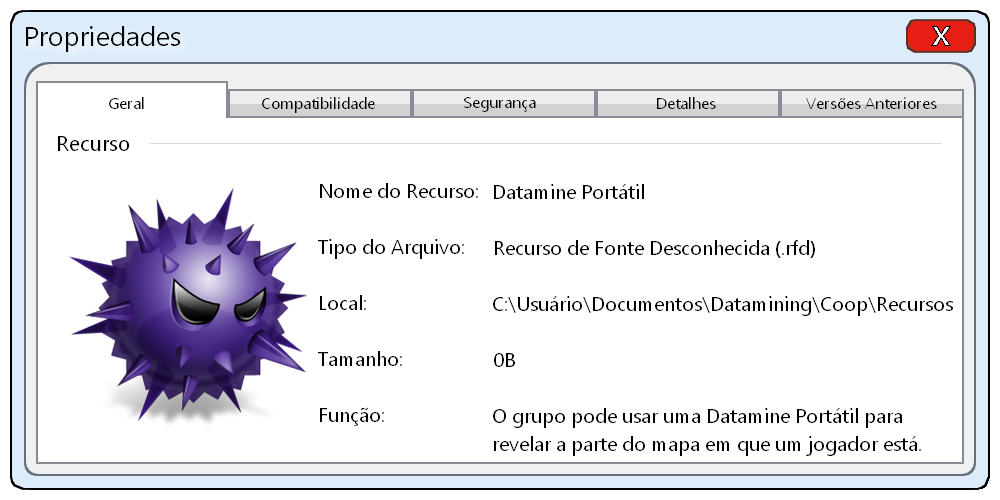
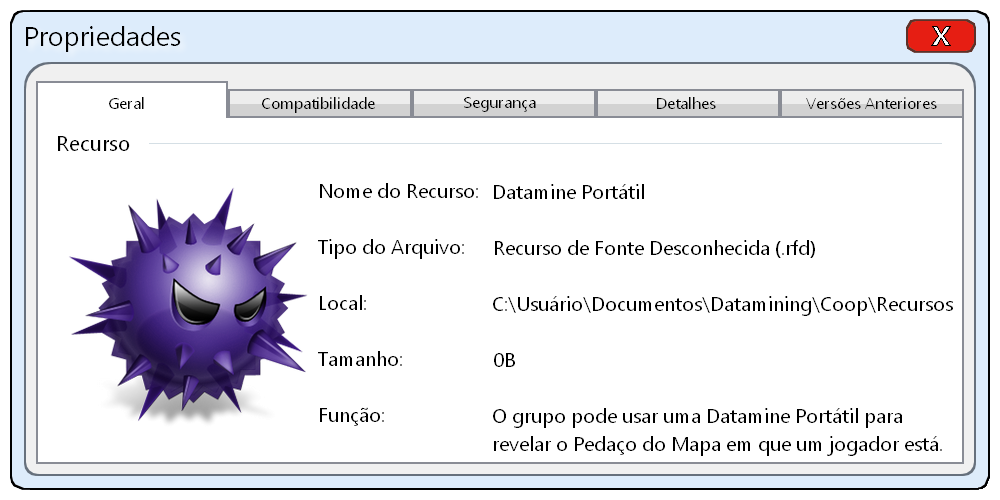
Add files via upload

Changed region(s): [[0.558, 0.87, 0.961, 0.93]]

diff --git a/Regras - Datamining.html b/Regras - Datamining.html
@@ -197,23 +197,23 @@
                 <div class="regra-com-imagem">
                     <div class="texto-regra">
                         <p>• <b>Objetivo:</b> Proteger o <strong>Arquivo Vital</strong>, que está na pasta de Diretório Principal, e levá-lo até sua Zona Segura. Vence o jogador que iniciar seu turno na própria pasta de Zona Segura com o Arquivo Vital no seu <strong>Banco de Dados</strong>.</p>
-						<p>• <b>Jogadores:</b> Um jogador é o <strong>Sistema Operacional (SO)</strong> sendo corrompido e os outros são <strong>Antivírus</strong> concorrentes entre si. <i><u>(Mínimo de 3 e máximo de 8 jogadores além do SO)</u></i></p>
+						<p>• <b>Jogadores:</b> Um jogador é o <strong>Sistema Operacional (SO)</strong> sendo corrompido e os outros são <strong>Antivírus</strong> concorrentes entre si. <i><u>(Mínimo de 3 e máximo de 8 jogadores Antivírus).</u></i></p>
                         <p>• <b>SO:</b> Apenas o SO vê a <strong>Tabela Mestra de Diretórios (TMD)</strong>. Ele informa as direções possíveis e a distância após a escolha do jogador sobre qual caminho seguir.</p>
-						<p>• <b>Antivírus:</b> Os jogadores Antivírus têm como ações: realizar um movimento, usar um <strong>Recurso</strong>, usar seus <strong>Patches</strong>, realizar um <strong>Combate</strong> ou rodar uma <strong>Roleta</strong>. <i><u>(Não pode repetir uma ação no mesmo turno normalmente)</u></i></p>
+						<p>• <b>Antivírus:</b> Os jogadores Antivírus têm como ações: realizar um <strong>Movimento</strong>, usar um <strong>Recurso</strong>, usar seus <strong>Patches</strong>, realizar um <strong>Combate</strong> ou rodar uma <strong>Roleta</strong>. <i><u>(Não pode repetir uma ação no mesmo turno normalmente).</u></i></p>
                     </div>
                     <img src="Regras PvP (1).png" class="imagem-regra" onclick="expandirImagem(this.src)">
                 </div>
 
                 <div class="regra-com-imagem">
                     <div class="texto-regra">
-                        <p>• <b>Setup:</b> Cada jogador escolhe sua cor e inicia o jogo com seus status <strong>1V-0A-5B</strong>. <i><u>(Versão, Atualização e Bits)</u></i></p>
+                        <p>• <b>Setup:</b> Cada jogador escolhe sua cor e inicia o jogo com seus status <strong>1V-0A-5B</strong>. <i><u>(Versão, Atualização e Bits).</u></i></p>
                     </div>
                     <img src="Regras PvP (2).png" class="imagem-regra" onclick="expandirImagem(this.src)">
                 </div>
 				
 				<div class="regra-com-imagem">
                     <div class="texto-regra">
-                        <p>• <b>Esgotamento:</b> Caso um jogador fique com ambos V e A abaixo de zero, coloque-o de volta na sua pasta de Zona Segura <i><u>(Se não tiver, vai para uma pasta de Download aleatória pelo mapa)</u></i>. Ele dá seus Recursos para os outros jogadores <i><u>(O Arquivo Vital volta para a pasta de Diretório Principal)</u></i> e recomeça com seus status iniciais.</p>
+                        <p>• <b>Esgotamento:</b> Caso um jogador fique com ambos V e A abaixo de zero, coloque-o de volta na sua pasta de Zona Segura <i><u>(Se não tiver, vai para uma pasta de Download aleatória pelo mapa)</u></i>. Ele dá seus Recursos para os outros jogadores <i><u>(O Arquivo Vital volta para a pasta do Diretório Principal)</u></i> e recomeça com seus status iniciais.</p>
 						<p>• <b>Início:</b> A ordem dos jogadores é escolhida pela roleta de Antivírus.</p>
 						<p>• <b>Exploração:</b> Com exceção das pastas de Zona Segura, do Diretório Principal, de Quarentena e de Downloads, encontrar uma pasta nunca explorada concede ao jogador uma <strong>Criptomoeda</strong>, que dá +1A ou +1B pro jogador a sua escolha.</p>
                     </div>
@@ -222,7 +222,7 @@
 				
 				<div class="regra-com-imagem">
                     <div class="texto-regra">
-                        <p>• <b>Datamine:</b> Com exceção das pastas de Zona Segura, do Diretório Principal, de Quarentena e de Downloads, existe uma Datamine escondida no mapa que, ao ser encontrada, revela para o jogador a parte do mapa em que ele está. Depois disso, ela é colocada escondida em outro lugar do mapa.</p>
+                        <p>• <b>Datamine:</b> Com exceção das pastas de Zona Segura, do Diretório Principal, de Quarentena e de Downloads, existe uma Datamine escondida no mapa que, ao ser encontrada, revela para o jogador um Pedaço do Mapa em que ele está. Depois disso, ela é colocada escondida em outro lugar do mapa.</p>
                     </div>
                     <img src="Regras PvP (4).png" class="imagem-regra" onclick="expandirImagem(this.src)">
                 </div>
@@ -239,7 +239,7 @@
                     <div class="texto-regra">
 						<p>• <b>Patch:</b> O jogador do turno sempre usa seus Patches antes dos demais, durante suas ações. Máximo de 3 Patches por jogador <i><u>(Não pode ser usado para remover um elemento da roleta que já tenha sido duplicado)</u></i>.</p>
 							<p>- <strong>1 Patch:</strong> Duplicar ou remover a chance de algum elemento numa roleta própria ou de outro jogador; Bloquear ou desbloquear um caminho adjacente a si.</p>
-							<p>- <strong>2 Patches:</strong> Ganhar um movimento adicional neste turno; Remover 1 Bug próprio; Lutar contra outro jogador a sua escolha <i><u>(Para lutas, ele pode usar 1 Patch próprio e 1 Bug do outro jogador)</u></i>.</p>
+							<p>- <strong>2 Patches:</strong> Ganhar um movimento adicional neste turno; Remover 1 Bug próprio; Entrar em Combate contra outro jogador a sua escolha <i><u>(Para Combates, ele pode usar 1 Patch próprio e 1 Bug do outro jogador)</u></i>.</p>
 							<p>- <strong>3 Patches:</strong> Fazer aparecer um Recurso a sua escolha, que já tenha sido usado por algum jogador durante esta partida, na pasta de Download; Ganhar +1V.</p>
 						<div class="separador"></div>
                     </div>
@@ -250,7 +250,7 @@
                     <div class="texto-regra">
 						<p>• <b>Bug:</b> Outros jogadores podem usar os Bugs do jogador a qualquer momento do turno deste. Máximo de 3 Bugs por jogador.</p>
 							<p>- <strong>1 Bug:</strong> Duplicar ou remover a chance de algum elemento numa roleta do jogador; Bloquear ou desbloquear um caminho adjacente do jogador do turno.</p>
-							<p>- <strong>2 Bugs:</strong> Impedir o jogador de fazer um movimento; Fazer o jogador perder 1 Patch; Forçar o jogador a entrar em uma luta <i><u>(Para lutas, o jogador pode usar 1 Patch próprio e 1 Bug do jogador do turno)</u></i>.</p>
+							<p>- <strong>2 Bugs:</strong> Impedir o jogador de fazer um movimento; Fazer o jogador perder 1 Patch; Forçar o jogador a entrar em um Combate contra o jogador que está usando seus Bugs <i><u>(Para Combates, o jogador pode usar 1 Patch próprio e 1 Bug do jogador do turno)</u></i>.</p>
 							<p>- <strong>3 Bugs:</strong> Remover um Recurso do Banco de Dados do jogador que não seja o Arquivo Vital; Receber -1V.</p>
 						<div class="separador"></div>
                     </div>
@@ -268,7 +268,7 @@
                 <div class="texto-regra">
                     <p>• <b>Diretório Principal:</b> É disfarçada de uma Pasta Vazia e é tratada como tal até o jogador encontrar todas as Chaves de Acesso e estiver com o V necessário ou acima para acessá-la.</p>
 					<p>• <b>Arquivo Vital:</b> Enquanto estiver fora do Diretório Principal, qualquer jogador pode ter o Arquivo Vital em seu Banco de Dados, independentemente de ter todas as Chaves de Acesso ou de estar no V necessário.</p>
-					<p>• <b>Empate:</b> No caso de empate em alguma luta ou indecisão do resultado de alguma roleta ou escolha, quem desempata são os jogadores externos à ação. Caso haja mais de um jogador externo, esta escolha deverá ser feita de forma unânime. Caso os jogadores externos não entrem num consenso sobre o que fazer por muito tempo, o SO pode, a qualquer momento, interromper a decisão e rodar a roleta de Quarentena para todos os jogadores <i><u>(internos ou externos à ação)</u></i>.</p>
+					<p>• <b>Empate:</b> No caso de empate em algum Combate ou indecisão do resultado de alguma Roleta ou escolha, quem desempata são os jogadores externos à ação. Caso haja mais de um jogador externo, esta escolha deverá ser feita de forma unânime. Caso os jogadores externos não entrem num consenso sobre o que fazer por muito tempo, o SO pode, a qualquer momento, interromper a decisão e rodar a roleta de Quarentena para todos os jogadores <i><u>(sejam participantes ou externos à ação)</u></i>.</p>
                 </div>
             </div>
 
@@ -282,7 +282,7 @@
 						<li>O mapa é completo, não tendo espaços vazios entre as pastas no mapa.</li>
 						<li>Sem caminhos bloqueados no início do jogo.</li>
 						<li>O SO informará a distância que deslocará, após o jogador escolher um caminho, e quais caminhos poderão ser seguidos da pasta que o jogador está.</li>
-						<li>Zonas Seguras estão sempre nos mesmos locais do mapa e cada jogador saberá onde ele mesmo inicia o jogo, mas não sabe onde iniciam os outros jogadores.</li>
+						<li>No início do jogo, os jogadores são informados sobre onde estão todas as pastas de Zonas Seguras do mapa. Cada jogador recebe secretamente as coordenadas de onde ele mesmo inicia o jogo, mas não sabe onde se iniciam os outros jogadores.</li>
 						<li>Ao invés de escolher entre receber +A ou +B, seja por vitórias ou encontrar criptomoedas, os jogadores recebem ambos.</li>
 						<li>Não há limite de uso de Recursos por turno.</li>
 						<li>Sem pasta de Quarentena pelo mapa.</li>
@@ -299,10 +299,10 @@
 						<li>A pasta de Diretório Principal só pode ser acessada por jogadores no 3V.</li>
 						<li>Sem caminhos bloqueados no início do jogo.</li>
 						<li>O SO informará a distância que deslocará, após o jogador escolher um caminho, e quais caminhos poderão ser seguidos da pasta que o jogador está.</li>
-						<li>Zonas Seguras estão sempre nos mesmos locais do mapa e cada jogador saberá onde ele mesmo inicia o jogo, mas não sabe onde iniciam os outros jogadores.</li>
+						<li>No início do jogo, os jogadores são informados sobre onde estão todas as pastas de Zonas Seguras do mapa. Cada jogador recebe secretamente as coordenadas de onde ele mesmo inicia o jogo, mas não sabe onde se iniciam os outros jogadores.</li>
 						<li>Ao invés de escolher entre receber +A ou +B, seja por vitórias ou encontrar criptomoedas, os jogadores recebem ambos.</li>
 						<li>Limite de uso de 2 Recursos por jogador a cada turno.</li>
-						<li>Sem pasta de Quarentena pelo mapa.</li>
+						<li>Há no mínimo 0 e no máximo 1 pasta de Quarentena pelo mapa.</li>
 						<li>Recursos à venda na pasta de Downloads custam -1B que seus preços normais <i><u>(Mínimo de 1B)</u></i>.</li>
 					</div>
 					<img src="Regras PvP (10).png" class="imagem-regra" onclick="expandirImagem(this.src)">
@@ -316,9 +316,9 @@
 						<li>A pasta de Diretório Principal só pode ser acessada por jogadores no 5V.</li>
 						<li>Alguns caminhos podem começar o jogo já bloqueados.</li>
 						<li>O SO informará a distância que deslocará, após o jogador escolher um caminho, e quais caminhos poderão ser seguidos da pasta que o jogador está.</li>
-						<li>Zonas Seguras estão sempre nos mesmos locais do mapa e cada jogador saberá onde ele mesmo inicia o jogo, mas não sabe onde iniciam os outros jogadores.</li>
+						<li>No início do jogo, os jogadores são informados sobre onde estão todas as pastas de Zonas Seguras do mapa. Cada jogador recebe secretamente as coordenadas de onde ele mesmo inicia o jogo, mas não sabe onde se iniciam os outros jogadores.</li>
 						<li>Limite de uso de 1 Recurso por jogador a cada turno.</li>
-						<li>Há 1 pasta de Quarentena pelo mapa.</li>
+						<li>Há no mínimo 1 e no máximo 3 pastas de Quarentena pelo mapa.</li>
 						<li>Recursos à venda na pasta de Downloads custam os seus preços normais.</li>
 					</div>
 					<img src="Regras PvP (11).png" class="imagem-regra" onclick="expandirImagem(this.src)">
@@ -332,9 +332,9 @@
 						<li>A pasta de Diretório Principal só pode ser acessada por jogadores no 7V.</li>
 						<li>Mais caminhos podem começar o jogo já bloqueados.</li>
 						<li>O SO não informará a distância que deslocará, após o jogador escolher um caminho, nem quais caminhos poderão ser seguidos da pasta que o jogador está <i><u>(O jogador informará uma direção e o SO dirá se o jogador se moveu ou falará para o jogador escolher outra)</u></i>.</li>
-						<li>Zonas Seguras, apesar de estarem sempre nos mesmos locais do mapa, não são informadas aos seus respectivos jogadores onde iniciam o jogo.</li>
+						<li>No início do jogo, cada jogador recebe secretamente as coordenadas de onde ele mesmo inicia o jogo, mas não sabe onde se iniciam os outros jogadores. Os jogadores não são informados sobre onde estão as demais pastas de Zonas Seguras do mapa.</li>
 						<li>Limite de uso de 1 Recurso por jogador a cada turno.</li>
-						<li>Há 2 pastas de Quarentena pelo mapa e o jogador fica 1 turno preso nelas.</li>
+						<li>Há no mínimo 2 e no máximo 4 pastas de Quarentena pelo mapa e o jogador fica 1 turno preso nelas.</li>
 						<li>Recursos à venda na pasta de Downloads custam +1B que seus preços normais.</li>
 					</div>
 					<img src="Regras PvP (12).png" class="imagem-regra" onclick="expandirImagem(this.src)">
@@ -348,12 +348,12 @@
 						<li>A pasta de Diretório Principal só pode ser acessada por jogadores no 10V.</li>
 						<li>Muitos caminhos podem começar o jogo já bloqueados.</li>
 						<li>O SO não informará a distância que deslocará, após o jogador escolher um caminho, nem quais caminhos poderão ser seguidos da pasta que o jogador está <i><u>(O jogador informará uma direção e o SO dirá se o jogador se moveu ou falará para o jogador escolher outra)</u></i>.</li>
-						<li>Zonas Seguras não são informadas aos seus respectivos jogadores onde iniciam o jogo. Além disso, elas não têm localização fixa, podendo estar em qualquer lugar do mapa.</li>
+						<li>Os jogadores não são informados sobre onde estão nenhuma das pastas de Zonas Seguras do mapa, nem mesmo as suas próprias.</li>
 						<li>Caminhos diagonais não são necessariamente em 45º.</li>
 						<li>Limite de uso de 1 Recurso por jogador a cada rodada.</li>
 						<li>Todas as perdas de A ou B são duplicadas.</li>
 						<li>Apenas 3 Recursos são vendidos na pasta de Download no máximo normalmente <i><u>(3 Comuns no primeiro patamar; 2 Comuns e 1 Incomum no segundo patamar; e 1 Comum, 1 Incomum e 1 Raro no terceiro patamar)</u></i>.</li>
-						<li>Há 4 pastas de Quarentena pelo mapa e o jogador fica 2 turnos preso nelas.</li>
+						<li>Há no mínimo 4 pastas de Quarentena pelo mapa e o jogador fica 1 turno preso nelas.</li>
 						<li>Recursos à venda na pasta de Downloads custam +3B que seus preços normais.</li>
 					</div>
 					<img src="Regras PvP (13).png" class="imagem-regra" onclick="expandirImagem(this.src)">
@@ -367,9 +367,9 @@
                 <div class="regra-com-imagem">
                     <div class="texto-regra">
                         <p>• <b>Objetivo:</b> Proteger o <strong>Arquivo Vital</strong>, que está na pasta de Diretório Principal, e levá-lo até sua Zona Segura. O grupo vence se todos iniciarem a rodada na Zona Segura com o Arquivo Vital em seu <strong>Banco de Dados</strong>.</p>
-						<p>• <b>Jogadores:</b> Um jogador é o <strong>Sistema Operacional (SO)</strong> sendo corrompido e os outros são um programa de <strong>Antivírus</strong> trabalhando juntos para resgatar o SO. (Mínimo de 3 e máximo de 8 jogadores além do SO)</p>
+						<p>• <b>Jogadores:</b> Um jogador é o <strong>Sistema Operacional (SO)</strong> sendo corrompido e os outros são um programa de <strong>Antivírus</strong> trabalhando juntos para resgatar o SO <i><u>(Mínimo de 3 e máximo de 8 jogadores Antivírus)</u></i>.</p>
 						<p>• <b>SO:</b> Apenas o SO vê a <strong>Tabela Mestra de Diretórios (TMD)</strong>. Ele informa as direções possíveis e a distância após a escolha do jogador sobre qual caminho seguir.</p>
-						<p>• <b>Antivírus:</b> Os jogadores Antivírus têm como ações: realizar um movimento, usar um <strong>Recurso</strong>, usar seus <strong>Patches</strong>, realizar um <strong>Jogo Cooperativo</strong> ou rodar uma <strong>Roleta</strong>. (Não pode repetir uma ação no mesmo turno normalmente)</p>
+						<p>• <b>Antivírus:</b> Os jogadores Antivírus têm como ações: realizar um <strong>Movimento</strong>, usar um <strong>Recurso</strong>, usar seus <strong>Patches</strong>, realizar um <strong>Jogo Cooperativo</strong> ou rodar uma <strong>Roleta</strong> <i><u>(Não pode repetir uma ação no mesmo turno normalmente)</u></i>.</p>
                     </div>
                     <img src="Regras Coop (1).png" class="imagem-regra" onclick="expandirImagem(this.src)">
                 </div>
@@ -386,21 +386,21 @@
                         <p>• <b>Turnos:</b> O jogo terá 120 turnos inicialmente.</p>
 						<p>• <b>Esgotamento:</b> Caso o grupo fique com ambos V e A abaixo de zero ou o número de turnos chegue a 0, o jogo acaba.</p>
 						<p>• <b>Exploração:</b> Com exceção das pastas de Zona Segura, do Diretório Principal, de Quarentena e de Downloads, encontrar uma pasta nunca explorada concede ao jogador uma <strong>Criptomoeda</strong>, que dá +1A ou +1B para o grupo a escolha do jogador que a encontrou.</p>
-						<p>• <b>Rodadas:</b> Durante uma rodada, cada jogador do grupo pode ter seu turno em qualquer ordem, mas cada jogador deve ter um turno por rodada. Ao final de cada rodada, é rolada a roleta de Arquivo Desconhecido.</p>
+						<p>• <b>Rodadas:</b> Durante uma rodada, cada jogador do grupo pode ter seu turno em qualquer ordem, mas cada jogador deve ter um turno por rodada. Ao final de cada rodada, é rolada a Roleta de Arquivo Desconhecido.</p>
                     </div>
                     <img src="Regras Coop (3).png" class="imagem-regra" onclick="expandirImagem(this.src)">
                 </div>
 				
 				<div class="regra-com-imagem">
                     <div class="texto-regra">
-                        <p>• <b>Datamine:</b> Com exceção das pastas de Zona Segura, do Diretório Principal, de Quarentena e de Downloads, existe uma Datamine escondida no mapa que, ao ser encontrada, revela para o grupo a parte do mapa em que o jogador que a encontrou está. Depois disso, ela é colocada escondida em outro lugar do mapa.</p>
+                        <p>• <b>Datamine:</b> Com exceção das pastas de Zona Segura, do Diretório Principal, de Quarentena e de Downloads, existe uma Datamine escondida no mapa que, ao ser encontrada, revela para o grupo o Pedaço do Mapa em que o jogador que a encontrou está. Depois disso, ela é colocada escondida em outro lugar do mapa.</p>
                     </div>
                     <img src="Regras Coop (4).png" class="imagem-regra" onclick="expandirImagem(this.src)">
                 </div>
 				
 				<div class="regra-com-imagem">
                     <div class="texto-regra">
-                        <p>• <b>Progressão:</b> A cada 10A, o jogador recebe +1V e um Patch e fica com 0A. Se seu A cair abaixo de 0, recebe -1V, um Bug, volta a 9A e perde 1 da contagem total de turnos.</p>
+                        <p>• <b>Progressão:</b> A cada 10A, o jogador recebe +1V e um Patch e fica com 0A. Se seu A cair abaixo de 0, recebe -1V, um Bug, volta a 9A e perde 1 da contagem total de turnos para cada jogador Antivírus.</p>
 						<div class="separador"></div>
                     </div>
                     <img src="Regras Coop (5).png" class="imagem-regra" onclick="expandirImagem(this.src)">
@@ -409,9 +409,9 @@
 				<div class="regra-com-imagem">
                     <div class="texto-regra">
                         <p>• <b>Patch:</b> Máximo de 3 Patches para o grupo <i><u>(Não pode ser usado para remover um elemento da roleta que já tenha sido duplicado)</u></i>.</p>
-							<p>- <strong>1 Patch:</strong> Duplicar ou remover a chance de algum elemento numa roleta; Bloquear ou desbloquear um caminho adjacente.</p>
-							<p>- <strong>2 Patches:</strong> Ganhar um movimento adicional neste turno; Remover 1 Bug; Ganhar 3 turnos.</p>
-							<p>- <strong>3 Patches:</strong> Fazer aparecer um Recurso a sua escolha, que já tenha sido usado por algum jogador durante esta partida, na pasta de Download; Ganhar +1V.</p>
+							<p>- <strong>1 Patch:</strong> Duplicar ou remover a chance de algum elemento numa roleta; Bloquear ou desbloquear um caminho adjacente; Ganhar 1 turno.</p>
+							<p>- <strong>2 Patches:</strong> Até 3 jogadores ganham um movimento adicional cada nesta rodada; Remover 1 Bug; Ganhar 3 turnos.</p>
+							<p>- <strong>3 Patches:</strong> Fazer aparecer um Recurso a sua escolha, que já tenha sido usado por algum jogador durante esta partida, na pasta de Download; Ganhar +1V; Ganhar 5 turnos.</p>
 						<div class="separador"></div>
                     </div>
                     <img src="Regras Coop (6).png" class="imagem-regra" onclick="expandirImagem(this.src)">
@@ -431,14 +431,14 @@
 				<div class="regra-com-imagem">
                     <div class="texto-regra">
                         <p>• <b>Recursos:</b> O Banco de Dados do grupo leva até 6 Recursos diferentes. Limite de 1 uso de Recurso por turno.</p>
-						<p>• <b>Jogo Cooperativo:</b> Quando dois ou mais jogadores terminam a rodada na mesma pasta, é iniciado um jogo Cooperativo apenas entre eles. Caso vençam, recebem +3A ou +3B, a escolha do grupo, e uma Datamine Portátil. Caso percam, recebem um Bug e -2B ou -2A, escolhido pelo SO. Estes mesmos jogadores não podem ter outro jogo Cooperativo exclusivamente entre si até que já tenha acontecido outro jogo entre qualquer outra combinação de jogadores ou com o grupo inteiro.</p>
+						<p>• <b>Jogo Cooperativo:</b> Quando dois ou mais jogadores terminam a rodada na mesma pasta, é iniciado um jogo Cooperativo apenas entre eles. Caso vençam, recebem +3A ou +3B, a escolha do grupo, e uma Datamine Portátil. Caso percam, recebem -2B ou -2A, escolhido pelo SO, e um Bug. Estes mesmos jogadores não podem ter outro jogo Cooperativo exclusivamente entre si até que já tenha acontecido outro jogo entre qualquer outra combinação de jogadores ou com o grupo inteiro.</p>
                     </div>
                     <img src="Regras Coop (8).png" class="imagem-regra" onclick="expandirImagem(this.src)">
                 </div>
 
                 <div class="texto-regra">
                     <p>• <b>Diretório Principal:</b> É disfarçada de uma Pasta Vazia e é tratada como tal até o grupo encontrar todas as Chaves de Acesso e estiver com o V necessário ou acima para acessá-la.</p>
-					<p>• <b>Empate:</b> No caso de demora ou indecisão do resultado de alguma roleta ou escolha, o SO pode, a qualquer momento, interromper a decisão e rodar a roleta de Quarentena para o grupo.</p>
+					<p>• <b>Empate:</b> No caso de demora ou indecisão do resultado de alguma roleta ou escolha, o SO pode decidir encerrar a decisão e rodar a roleta de Quarentena para o grupo.</p>
                 </div>
             </div>
 
@@ -453,10 +453,10 @@
 						<li>Sem caminhos bloqueados no início do jogo.</li>
 						<li>Limite de uso de 1 Recurso do grupo por turno.</li>
 						<li>O SO informará a distância que deslocará, após o jogador escolher um caminho, e quais caminhos poderão ser seguidos da pasta que o jogador está.</li>
-						<li>Zonas Seguras estão sempre nos mesmos locais do mapa e são informadas aos seus respectivos jogadores onde iniciam o jogo.</li>
+						<li>No início do jogo, o grupo é informado sobre onde estão todas as pastas de Zonas Seguras do mapa e recebe as coordenadas de onde cada jogador inicia o jogo.</li>
 						<li>Ao invés de escolher entre ganhar +A ou +B, seja por vitórias ou encontrar criptomoedas, o grupo recebe ambos.</li>
 						<li>Ao final de cada rodada, a roleta de Arquivo Desconhecido é rolada.</li>
-						<li>Há 1 pasta de Quarentena pelo mapa.</li>
+						<li>Há no mínimo 1 e no máximo 3 pastas de Quarentena pelo mapa.</li>
 						<li>Adquirir uma nova Zona Segura custa 6B.</li>
 						<li>Recursos à venda na pasta de Downloads custam -2B que seus preços normais (Mínimo de 1B).</li>
 					</div>
@@ -472,9 +472,9 @@
 						<li>Alguns caminhos podem começar o jogo já bloqueados.</li>
 						<li>Limite de uso de 1 Recurso do grupo por turno.</li>
 						<li>O SO informará a distância que deslocará, após o jogador escolher um caminho, e quais caminhos poderão ser seguidos da pasta que o jogador está.</li>
-						<li>Zonas Seguras estão sempre nos mesmos locais do mapa e são informadas aos seus respectivos jogadores onde iniciam o jogo.</li>
+						<li>No início do jogo, o grupo recebe as coordenadas de onde cada jogador inicia o jogo, porém não é informado sobre onde estão as demais pastas de Zonas Seguras do mapa.</li>
 						<li>Ao final de cada rodada, a roleta de Arquivo Desconhecido é rolada.</li>
-						<li>Há 2 pastas de Quarentena pelo mapa e o jogador fica 1 turno preso nelas.</li>
+						<li>Há no mínimo 2 e no máximo 5 pastas de Quarentena pelo mapa e o jogador fica 1 turno preso nelas.</li>
 						<li>Adquirir uma nova Zona Segura custa 8B.</li>
 						<li>Recursos à venda na pasta de Downloads custam seus preços normais.</li>
 					</div>
@@ -491,10 +491,10 @@
 						<li>Todas as perdas de A ou B são duplicadas.</li>
 						<li>Limite de uso de 1 Recurso do grupo por rodada.</li>
 						<li>O SO não informará a distância que deslocará, após o jogador escolher um caminho, nem quais caminhos poderão ser seguidos da pasta que o jogador está.</li>
-						<li>Zonas Seguras, apesar de estarem sempre nos mesmos locais do mapa, não serão informadas aos seus respectivos jogadores onde iniciam o jogo.</li>
+						<li>O grupo não é informado sobre onde estão as pastas de Zonas Seguras do mapa, nem as coordenadas de onde cada jogador inicia o jogo.</li>
 						<li>Caminhos diagonais não são necessariamente em 45º.</li>
 						<li>Ao final de cada rodada, a roleta de Quarentena é rolada.</li>
-						<li>Há 4 pastas de Quarentena pelo mapa e o jogador fica 2 turnos preso nelas.</li>
+						<li>Há no mínimo 4 pastas de Quarentena pelo mapa e o jogador fica 1 turno preso nelas.</li>
 						<li>Adquirir uma nova Zona Segura custa 12B.</li>
 						<li>Recursos à venda na pasta de Downloads custam +3B que seus preços normais.</li>
 					</div>

diff --git a/Pastas - Datamining.html b/Pastas - Datamining.html
@@ -202,7 +202,7 @@
                     <div class="conteudo-dificuldade">
                         <div class="subtitulo-dif">Zona Segura</div>
 							<div class="texto-regra">
-							<p>Onde cada jogador inicia o jogo. Seus locais no mapa são sempre os mesmos <i>(Exceto no Modo Extremo)</i>, variando apenas qual é a pasta inicial de cada jogador. São informados onde estão no mapa aos seus respectivos jogadores <i>(Exceto nos Modos Difícil e Extremo)</i>. Independente de quantos jogadores tenham no jogo, sempre há 8 pastas de Zona Segura espalhadas pelo mapa, uma para cada cor de jogador. Toda vez que um jogador passar pela sua própria Zona Segura, recebe +2B. Caso jogador entre na pasta de Zona Segura de outro jogador, deve pagar 2B ao dono da pasta. Caso um jogador encontre uma pasta de Zona Segura que não pertença a nenhum jogador, ele pode pagar 5B para trocar a sua pasta de Zona Segura por esta, recebendo também uma parte do mapa com suas pastas adjacentes, do contrário, recebe +2A. Um jogador com o Arquivo Vital não pode adquirir uma nova pasta de Zona Segura, enquanto já possuir uma. Caso um jogador esteja em sua pasta de Zona Segura e outro jogador entre nela, o dono da pasta pode escolher entre lutar contra o outro jogador ou não. Caso escolha não lutar, deve dar um Recurso seu para o outro jogador e não recebe o pagamento do outro jogador por entrar em sua Zona Segura <i>(Este efeito não imuniza o jogador dentro de sua Zona Segura de entrar em luta com outros jogadores por outros métodos)</i>.</p>
+							<p>Onde cada jogador inicia o jogo. Seus locais no mapa são sempre informados a todos os jogadores <i>(Exceto nos Modos Difícil e Extremo)</i>, variando apenas qual é a pasta inicial de cada jogador, que é informada secretamente para cada um <i>(Exceto no Modo Extremo)</i>. Independente de quantos jogadores tenham no jogo, sempre há 8 pastas de Zona Segura espalhadas pelo mapa. Toda vez que um jogador passar pela sua própria Zona Segura, recebe +2B. Caso jogador entre na pasta de Zona Segura de outro jogador, deve pagar 2B ao dono da pasta. Caso um jogador encontre uma pasta de Zona Segura que não pertença a nenhum jogador, ele pode pagar 5B para trocar a sua pasta de Zona Segura por esta, recebendo também um Pedaço do Mapa de onde esta pasta está, do contrário, recebe +2A. Um jogador com o Arquivo Vital não pode adquirir uma nova pasta de Zona Segura, enquanto já possuir uma. Caso um jogador esteja em sua pasta de Zona Segura e outro jogador entre nela, o dono da pasta pode escolher entre entrar em Combate contra o outro jogador ou não. Caso escolha não entrar em Combate, deve dar um Recurso seu para o outro jogador e também não recebe o pagamento do outro jogador por entrar em sua Zona Segura <i>(Este efeito não imuniza o jogador dentro de sua Zona Segura de entrar em Combate com outros jogadores por outros métodos)</i>.</p>
 						</div>
                     </div>
                     <img src="Pasta (1).png" class="imagem-regra" onclick="expandirImagem(this.src)">
@@ -231,7 +231,7 @@
                     <div class="conteudo-dificuldade">
                         <div class="subtitulo-dif">Downloads</div>
 							<div class="texto-regra">
-							<p>Os jogadores podem usar seus Bits para comprar Recursos. Toda vez que um jogador entrar nesta pasta, são aleatorizados entre 4 a 7 Recursos que estão à venda. Recursos melhores aparecem conforme o jogador progride pelo jogo. Os Recursos à venda e seus efeitos somente aparecem para o jogador que está comprando, porém são mostrados aos outros jogadores a imagem representativa dos Recursos comprados. Máximo de 2 Recursos podem ser comprados por turno.</p>
+							<p>Os jogadores podem usar seus Bits para comprar Recursos. A cada vez que um jogador entrar nesta pasta, são aleatorizados entre 4 a 7 Recursos que estão à venda. Recursos melhores aparecem conforme o jogador progride pelo jogo. Os Recursos à venda e seus efeitos somente aparecem para o jogador que está comprando, porém são mostrados aos outros jogadores apenas o ícone dos Recursos comprados, em seu Banco de Dados. Máximo de 2 Recursos podem ser comprados por turno numa mesma pasta de Download.</p>
 						</div>
                     </div>
                     <img src="Pasta (4).png" class="imagem-regra" onclick="expandirImagem(this.src)">
@@ -261,7 +261,7 @@
                     <div class="conteudo-dificuldade">
                         <div class="subtitulo-dif">Chave de Acesso</div>
 							<div class="texto-regra">
-							<p>O jogador recebe secretamente uma pista de onde está a pasta do Diretório Principal <i>(É tratada como uma Pasta Vazia, durante o turno do jogador que a encontrou)</i>. A cada final de rodada em que algum jogador tenha encontrado pelo menos uma pasta de Chave de Acesso, o SO informa a todos quantos jogadores possuem Chaves de Acesso e quantas cada um possui, sem informar quais jogadores as têm. Encontrando todas, permite ao jogador encontrar o Diretório Principal.</p>
+							<p>O jogador recebe secretamente uma pista de onde está a pasta do Diretório Principal <i>(É tratada como uma Pasta Vazia, durante o turno do jogador que a encontrou)</i>. A cada final de rodada em que algum jogador tenha encontrado pelo menos uma pasta de Chave de Acesso, o SO informa a todos quantos jogadores possuem Chaves de Acesso e quantas cada um possui, sem informar quais jogadores as têm. Encontrando todas, permite ao jogador encontrar a pasta do Diretório Principal.</p>
 						</div>
                     </div>
                     <img src="Pasta (7).png" class="imagem-regra" onclick="expandirImagem(this.src)">
@@ -271,7 +271,7 @@
                     <div class="conteudo-dificuldade">
                         <div class="subtitulo-dif">Diretório Principal</div>
 							<div class="texto-regra">
-							<p>É disfarçada de alguma outra Pasta Vazia até o jogador encontrar todas as Chaves de Acesso e ter V necessário para acessá-la. É onde está o Arquivo Vital.</p>
+							<p>É disfarçada de alguma outra Pasta Vazia até o jogador encontrar todas as Chaves de Acesso e ter V necessário para acessá-la. É onde inicialmente está o Arquivo Vital.</p>
 						</div>
                     </div>
                     <img src="Pasta (8).png" class="imagem-regra" onclick="expandirImagem(this.src)">
@@ -296,7 +296,7 @@
                     <div class="conteudo-dificuldade">
                         <div class="subtitulo-dif">Zona Segura</div>
 							<div class="texto-regra">
-							<p>Onde cada jogador inicia o jogo. Seus locais no mapa são sempre os mesmos, variando apenas qual é a pasta inicial de cada jogador. Todos os jogadores são informados onde estão as pastas de cada um no mapa <i>(Exceto no Modo Difícil)</i>. Independente de quantos jogadores tenham no jogo, sempre há 8 pastas de Zona Segura no mapa. Toda vez que um jogador passar por alguma Zona Segura pertencente ao grupo que não seja da sua mesma cor, o grupo recebe +2B. Caso um jogador encontre uma pasta de Zona Segura que não pertença ao grupo, ele pode pagar 8B para trocar a sua Zona Segura por esta, recebendo também uma parte do mapa com suas pastas adjacentes, do contrário, recebe +3A. Enquanto o grupo possuir o Arquivo Vital, todas as pastas de Zona Segura são dadas como perdidas e apenas uma delas é escolhida aleatoriamente para ser a única saída do grupo. Enquanto possuírem o Arquivo Vital, o grupo não pode adquirir uma nova pasta de Zona Segura e, caso esta seja perdida por algum efeito, apenas altera a Zona Segura para outra escolhida aleatoriamente.</p>
+							<p>Onde cada jogador inicia o jogo. Seus locais no mapa não são informados aos jogadores <i>(Exceto no Modo Fácil)</i>, mas as coordenadas das pastas iniciais de cada jogador são <i>(Exceto no Modo Difícil)</i>. Independente de quantos jogadores tenham no jogo, sempre há 8 pastas de Zona Segura no mapa. Toda vez que um jogador passar por alguma Zona Segura pertencente ao grupo que não seja da sua mesma cor, o grupo recebe +2B <i>(Se a pasta de Zona Segura e o jogador forem da mesma cor, o grupo não recebe nada)</i>. Caso um jogador encontre uma pasta de Zona Segura que não pertença ao grupo, ele pode pagar 8B para trocar a sua Zona Segura por esta, recebendo também um Pedaço do Mapa com suas pastas adjacentes, do contrário, recebe +3A. Enquanto o grupo possuir o Arquivo Vital, todas as pastas de Zona Segura são dadas como perdidas e apenas uma delas é escolhida aleatoriamente para ser a única saída do grupo. Enquanto possuírem o Arquivo Vital, o grupo não pode adquirir uma nova pasta de Zona Segura e, caso esta seja perdida por algum efeito, apenas altera a Zona Segura para outra escolhida aleatoriamente.</p>
 						</div>
                     </div>
                     <img src="Pasta (1).png" class="imagem-regra" onclick="expandirImagem(this.src)">
@@ -325,7 +325,7 @@
                     <div class="conteudo-dificuldade">
                         <div class="subtitulo-dif">Downloads</div>
 							<div class="texto-regra">
-							<p>O grupo pode usar seus Bits para comprar Recursos. Toda vez que um jogador entrar nesta pasta, são aleatorizados entre 4 a 7 Recursos que estão à venda. Recursos melhores aparecem conforme o grupo progride durante o jogo. Máximo de 2 Recursos podem ser comprados por turno.</p>
+							<p>O grupo pode usar seus Bits para comprar Recursos. A cada vez que um jogador entrar nesta pasta, são aleatorizados entre 4 a 7 Recursos que estão à venda. Recursos melhores aparecem conforme o grupo progride durante o jogo. Máximo de 2 Recursos podem ser comprados por turno.</p>
 						</div>
                     </div>
                     <img src="Pasta (4).png" class="imagem-regra" onclick="expandirImagem(this.src)">
@@ -335,7 +335,7 @@
                     <div class="conteudo-dificuldade">
                         <div class="subtitulo-dif">Jogo Cooperativo</div>
 							<div class="texto-regra">
-							<p>O grupo roda a roleta Cooperativa. Caso ganhem o jogo, recebem +3A ou +3B, a escolha do grupo, além de 1 Patch e 1 Datamine Portátil. Caso percam, recebem -3B, -3A ou se perdem um Recurso aleatoriamente, a escolha do SO, e 1 Bug.</p>
+							<p>O grupo roda a roleta Cooperativa. Caso ganhem o jogo, recebem +3A ou +3B, a escolha do grupo, além de 1 Patch e 1 Datamine Portátil. Caso percam, recebem -3B, -3A ou perdem um Recurso aleatoriamente, a escolha do SO, além de 1 Bug.</p>
 						</div>
                     </div>
                     <img src="Pasta (5)c.png" class="imagem-regra" onclick="expandirImagem(this.src)">
@@ -355,7 +355,7 @@
                     <div class="conteudo-dificuldade">
                         <div class="subtitulo-dif">Chave de Acesso</div>
 							<div class="texto-regra">
-							<p>O grupo recebe uma pista de onde está a pasta do Diretório Principal. Encontrando todas, permite ao grupo encontrar o Diretório Principal.</p>
+							<p>O grupo recebe uma pista de onde está a pasta do Diretório Principal. Encontrando todas, permite ao grupo encontrar a pasta do Diretório Principal.</p>
 						</div>
                     </div>
                     <img src="Pasta (7).png" class="imagem-regra" onclick="expandirImagem(this.src)">
@@ -365,7 +365,7 @@
                     <div class="conteudo-dificuldade">
                         <div class="subtitulo-dif">Diretório Principal</div>
 							<div class="texto-regra">
-							<p>É disfarçada de alguma outra pasta até o grupo encontrar todas as Chaves de Acesso e ter V necessário para acessá-la. Local onde está o Arquivo Vital.</p>
+							<p>É disfarçada de alguma outra pasta até o grupo encontrar todas as Chaves de Acesso e ter V necessário para acessá-la. É onde inicialmente está o Arquivo Vital.</p>
 						</div>
                     </div>
                     <img src="Pasta (8).png" class="imagem-regra" onclick="expandirImagem(this.src)">

diff --git a/Placares Secretos - Datamining.html b/Placares Secretos - Datamining.html
@@ -436,16 +436,16 @@
     // Regras e Tabela de Dificuldade mantidas conforme seu código...
     const regrasTexto = {
         pvp: {
-            'muito fácil': ["Recomendado: Máximo 4 jogadores.", "Mapa 5x5 (sem pastas de Chave de Acesso).", "Mapa completo (sem espaços vazios).", "Sem caminhos bloqueados no início.", "SO informa distância e caminhos.", "Zonas Seguras fixas e informadas individualmente.", "Recebe +A e +B simultaneamente.", "Sem limite de uso de Recursos.", "Sem pastas de Quarentena.", "Downloads: -2B (Mín. 1B)."],
-            'fácil': ["Recomendado: Máximo 5 jogadores.", "Mapa 7x7 (1 pasta de Chave de Acesso).", "Diretório Principal: Acesso no 3V.", "Sem caminhos bloqueados no início.", "SO informa distância e caminhos.", "Zonas Seguras fixas e informadas individualmente.", "Recebe +A e +B simultaneamente.", "Limite: 2 Recursos por turno.", "Sem pastas de Quarentena.", "Downloads: -1B (Mín. 1B)."],
-            'normal': ["Recomendado: 3 a 6 jogadores.", "Mapa 9x9 (2 pastas de Chave de Acesso).", "Diretório Principal: Acesso no 5V.", "Caminhos podem começar bloqueados.", "SO informa distância e caminhos.", "Zonas Seguras fixas e informadas individualmente.", "Limite: 1 Recurso por turno.", "1 pasta de Quarentena no mapa.", "Downloads: Preços normais."],
-            'difícil': ["Recomendado: 4 a 6 jogadores.", "Mapa 12x12 (3 pastas de Chave de Acesso).", "Diretório Principal: Acesso no 7V.", "Mais caminhos bloqueados.", "SO NÃO informa distância ou caminhos.", "Zonas Seguras fixas, mas início não informado.", "Limite: 1 Recurso por turno.", "2 pastas de Quarentena (1 turno preso).", "Downloads: +1B."],
-            'extremo': ["Recomendado: 6 a 8 jogadores.", "Mapa 15x15 (5 pastas de Chave de Acesso).", "Diretório Principal: Acesso no 10V.", "Muitos caminhos bloqueados.", "SO NÃO informa distância ou caminhos.", "Zonas Seguras móveis e início oculto.", "Caminhos diagonais não necessariamente em 45º.", "Limite: 1 Recurso por rodada.", "Perdas de A ou B duplicadas.", "Estoque de Downloads reduzido.", "4 pastas de Quarentena (2 turnos preso).", "Downloads: +3B."]
+            'muito fácil': ["Recomendado: Máximo 4 jogadores.", "Mapa 5x5 (sem pastas de Chave de Acesso).", "Mapa completo (sem espaços vazios).", "Sem caminhos bloqueados no início.", "SO informa distância e caminhos.", "Zonas Seguras do mapa e individuais informadas.", "Recebe +A e +B simultaneamente.", "Sem limite de uso de Recursos.", "Sem pastas de Quarentena.", "Downloads: -2B (Mín. 1B)."],
+            'fácil': ["Recomendado: Máximo 5 jogadores.", "Mapa 7x7 (1 pasta de Chave de Acesso).", "Diretório Principal: Acesso no 3V.", "Sem caminhos bloqueados no início.", "SO informa distância e caminhos.", "Zonas Seguras do mapa e individuais informadas.", "Recebe +A e +B simultaneamente.", "Limite: 2 Recursos por turno.", "0 a 1 pasta de Quarentena.", "Downloads: -1B (Mín. 1B)."],
+            'normal': ["Recomendado: 3 a 6 jogadores.", "Mapa 9x9 (2 pastas de Chave de Acesso).", "Diretório Principal: Acesso no 5V.", "Caminhos podem começar bloqueados.", "SO informa distância e caminhos.", "Zonas Seguras do mapa e individuais informadas.", "Limite: 1 Recurso por turno.", "1 a 3 pastas de Quarentena no mapa.", "Downloads: Preços normais."],
+            'difícil': ["Recomendado: 4 a 6 jogadores.", "Mapa 12x12 (3 pastas de Chave de Acesso).", "Diretório Principal: Acesso no 7V.", "Mais caminhos bloqueados.", "SO NÃO informa distância ou caminhos.", "Apenas Zonas Seguras individuais são informadas.", "Limite: 1 Recurso por turno.", "2 a 4 pastas de Quarentena (1 turno preso).", "Downloads: +1B."],
+            'extremo': ["Recomendado: 6 a 8 jogadores.", "Mapa 15x15 (5 pastas de Chave de Acesso).", "Diretório Principal: Acesso no 10V.", "Muitos caminhos bloqueados.", "SO NÃO informa distância ou caminhos.", "Zonas Seguras não são informadas.", "Caminhos diagonais não necessariamente em 45º.", "Limite: 1 Recurso por rodada.", "Perdas de A ou B duplicadas.", "Estoque de Downloads reduzido.", "4 ou mais pastas de Quarentena (1 turno preso).", "Downloads: +3B."]
         },
         coop: {
-            'fácil': ["Recomendado: Máximo 4 jogadores.", "Mapa 9x9 (2 pastas de Chave de Acesso).", "Diretório Principal: Acesso no 3V.", "Sem caminhos bloqueados no início.", "Limite: 1 Recurso do grupo por turno.", "SO informa distância e caminhos.", "Zonas Seguras fixas e informadas.", "Grupo recebe +A e +B simultaneamente.", "Roleta Arquivo Desconhecido toda rodada.", "1 pasta de Quarentena.", "Nova Zona Segura: 6B.", "Downloads: -2B (Mín. 1B)."],
-            'normal': ["Recomendado: 3 a 6 jogadores.", "Mapa 12x12 (3 pastas de Chave de Acesso).", "Diretório Principal: Acesso no 5V.", "Caminhos podem começar bloqueados.", "Limite: 1 Recurso do grupo por turno.", "SO informa distância e caminhos.", "Zonas Seguras fixas e informadas.", "Roleta Arquivo Desconhecido toda rodada.", "2 pastas de Quarentena (1 turno preso).", "Nova Zona Segura: 8B.", "Downloads: Preço normal."],
-            'difícil': ["Recomendado: 5 a 8 jogadores.", "Mapa 15x15 (5 pastas de Chave de Acesso).", "Diretório Principal: Acesso no 7V.", "Muitos caminhos bloqueados.", "Perdas de A ou B duplicadas.", "Limite: 1 Recurso do grupo por rodada.", "SO NÃO informa distância ou caminhos.", "Início não informado.", "Caminhos diagonais não necessariamente em 45º.", "Roleta de Quarentena toda rodada.", "4 pastas de Quarentena (2 turnos preso).", "Nova Zona Segura: 12B.", "Downloads: +3B."]
+            'fácil': ["Recomendado: Máximo 4 jogadores.", "Mapa 9x9 (2 pastas de Chave de Acesso).", "Diretório Principal: Acesso no 3V.", "Sem caminhos bloqueados no início.", "Limite: 1 Recurso do grupo por turno.", "SO informa distância e caminhos.", "Zonas Seguras do mapa e individuais informadas.", "Grupo recebe +A e +B simultaneamente.", "Roleta Arquivo Desconhecido toda rodada.", "1 a 3 pastas de Quarentena.", "Nova Zona Segura: 6B.", "Downloads: -2B (Mín. 1B)."],
+            'normal': ["Recomendado: 3 a 6 jogadores.", "Mapa 12x12 (3 pastas de Chave de Acesso).", "Diretório Principal: Acesso no 5V.", "Caminhos podem começar bloqueados.", "Limite: 1 Recurso do grupo por turno.", "SO informa distância e caminhos.", "Apenas Zonas Seguras individuais são informadas.", "Roleta Arquivo Desconhecido toda rodada.", "2 a 5 pastas de Quarentena (1 turno preso).", "Nova Zona Segura: 8B.", "Downloads: Preço normal."],
+            'difícil': ["Recomendado: 5 a 8 jogadores.", "Mapa 15x15 (5 pastas de Chave de Acesso).", "Diretório Principal: Acesso no 7V.", "Muitos caminhos bloqueados.", "Perdas de A ou B duplicadas.", "Limite: 1 Recurso do grupo por rodada.", "SO NÃO informa distância ou caminhos.", "Zonas Seguras não são informadas.", "Caminhos diagonais não necessariamente em 45º.", "Roleta de Quarentena toda rodada.", "4 ou mais pastas de Quarentena (1 turno preso).", "Nova Zona Segura: 12B.", "Downloads: +3B."]
         }
     };
 
